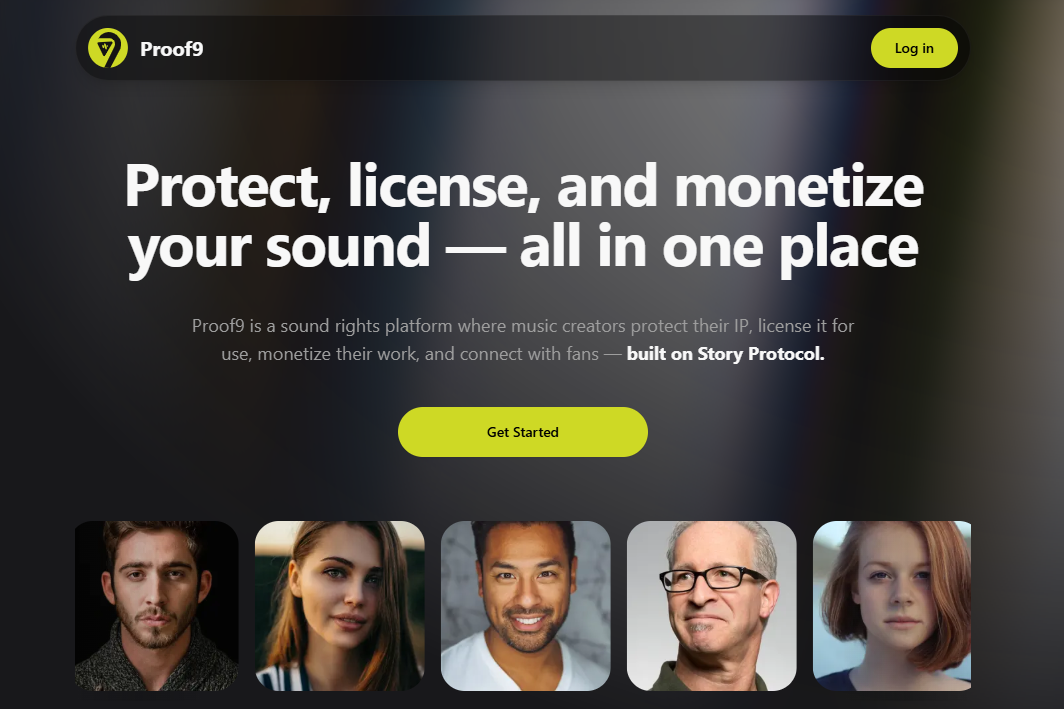
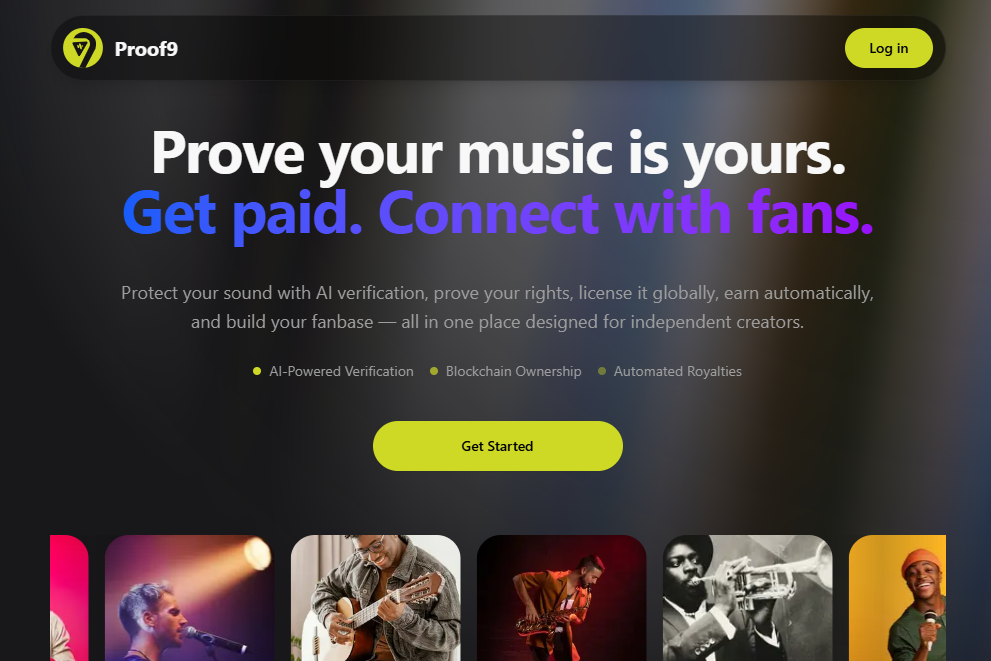
style: update homepage headline for improved readability and visual appeal

diff --git a/frontend/src/app/page.tsx b/frontend/src/app/page.tsx
@@ -52,7 +52,7 @@ export default function Home() {
             {/* Hero section */}
             <div className="flex flex-col items-center text-center">
               {/* Headline */}
-              <h1 className="max-w-4xl pt-20 font-bold text-4xl text-foreground tracking-tight md:text-5xl lg:text-6xl">
+              <h1 className="max-w-4xl pt-20 font-bold text-4xl text-foreground tracking-tight leading-tight md:text-5xl lg:text-6xl md:leading-tight lg:leading-tight">
                 Prove your music is yours. <br />
                 <span className="bg-gradient-to-r from-blue-600 to-purple-600 bg-clip-text text-transparent">
                   Get paid. Connect with fans.
